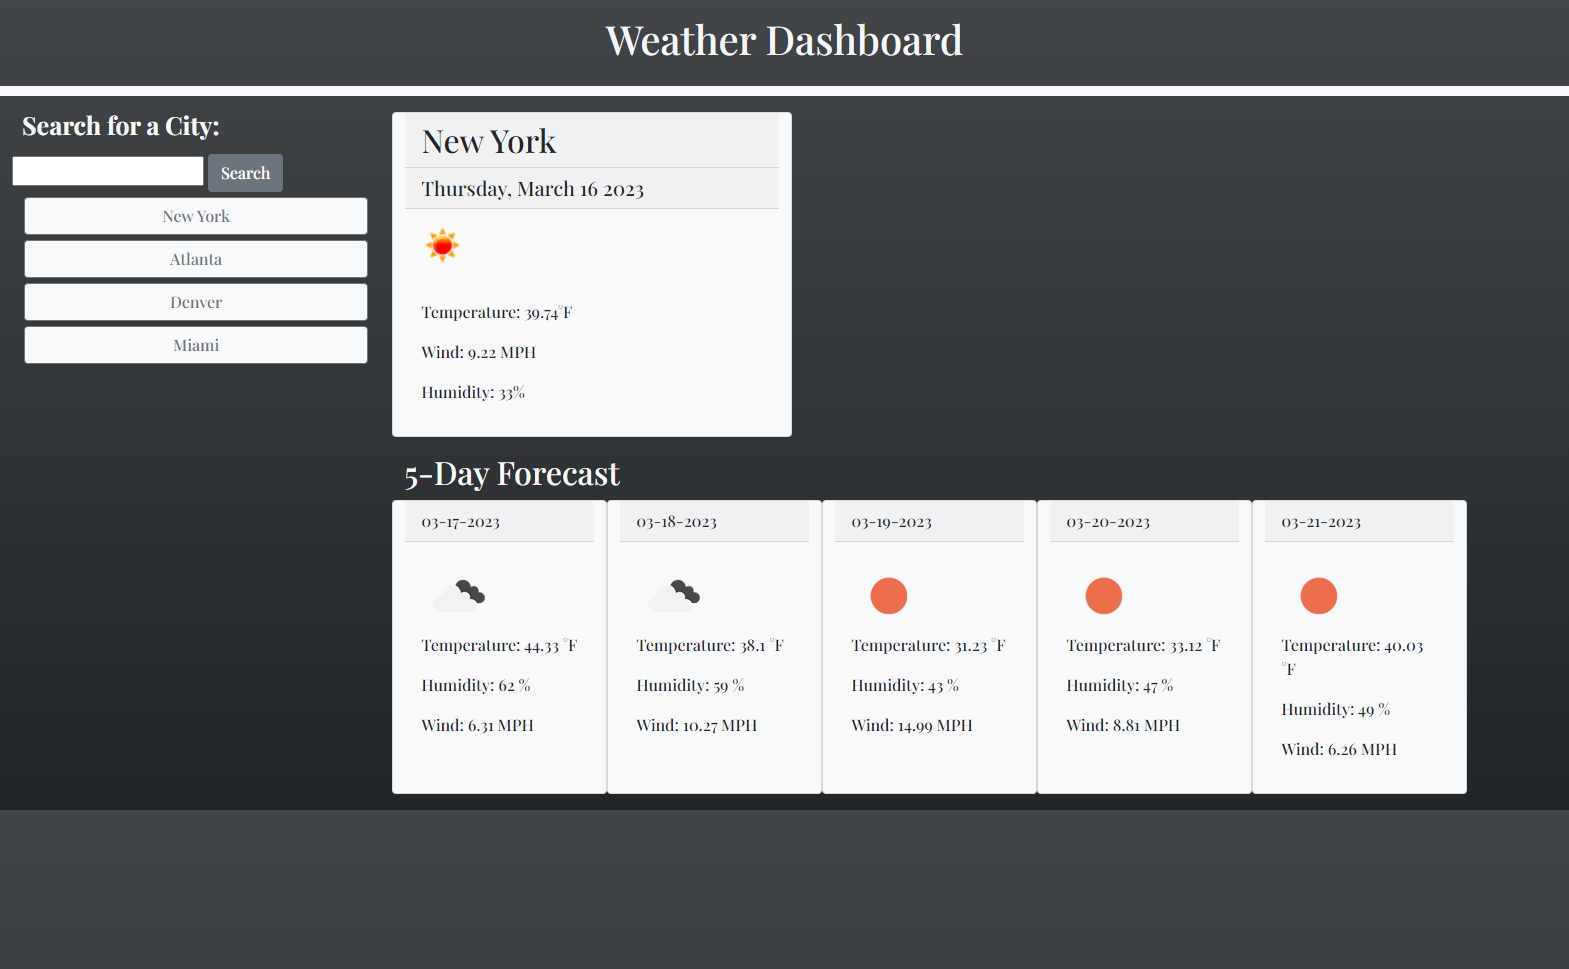
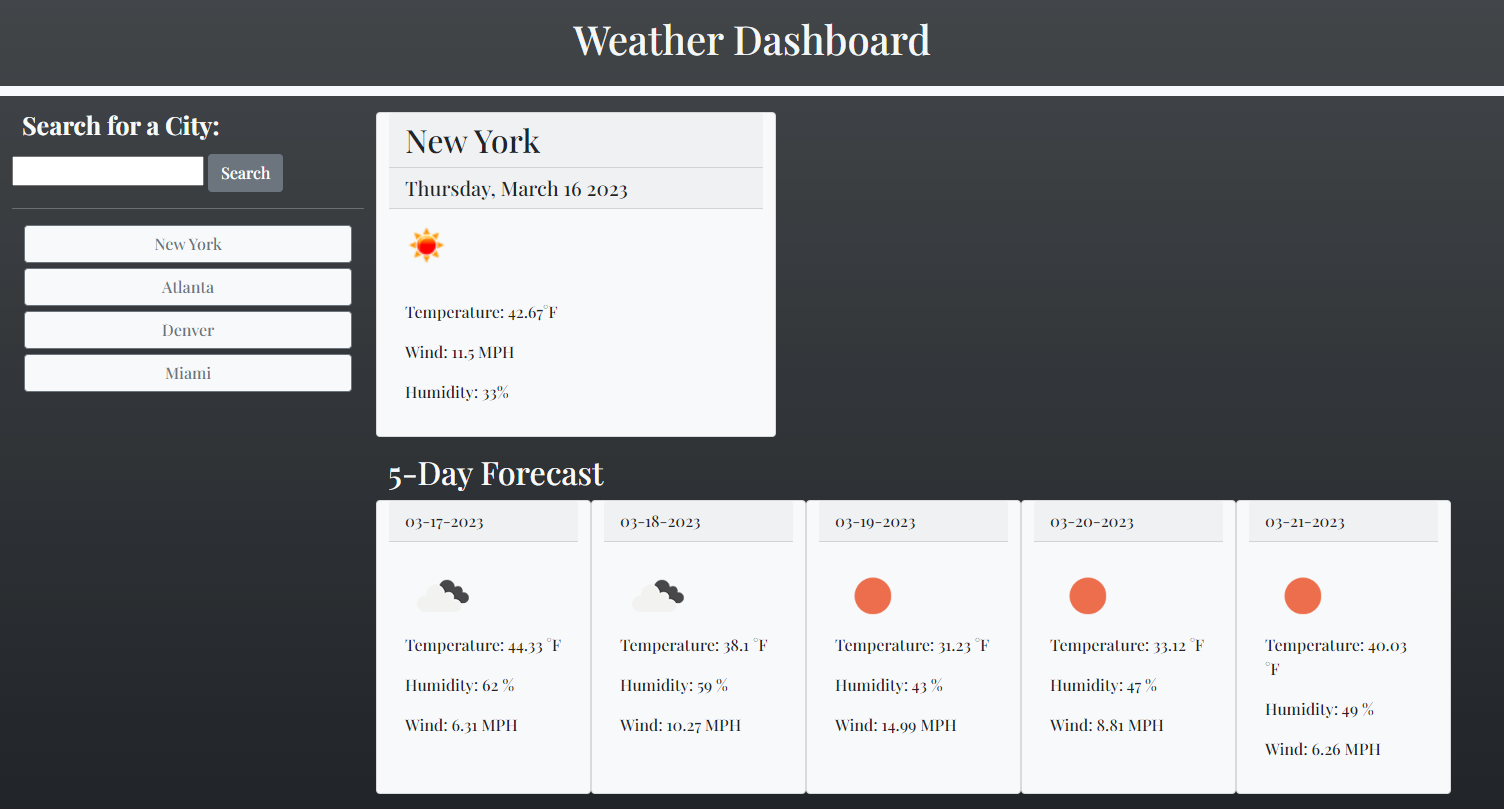
added comments

diff --git a/assets/script.js b/assets/script.js
@@ -1,3 +1,4 @@
+// Referenced global variables
 var citySearchForm = $("#search-city")
 var submitBtn = $("#submit-button");
 
@@ -6,64 +7,91 @@ var submitBtn = $("#submit-button");
 var date = dayjs().format('dddd, MMMM D YYYY');
 var dateTime = dayjs().format('YYYY-MM-DD HH:MM:SS')
 
+// created an empty cities array to be filled later
 var cities = [];
+// set Api key equal to a new var to be referenced more easily throughout code
 var key = "d743387c66c5b9bb1ef18f3d12ba90c7";
 
+// wrapped all functions in a call to jQuery to make sure DOM elements load first
 $(function() {
-    console.log("page and jquery initialized");
+    // console.log("page and jquery initialized");
 
-    
+    // calls Load cities function 
     loadCities();
     
 });
 
+// Retrieves any previously searched cities and/or displays default city upon page load
+function loadCities(city) {
+    var citiesStored = JSON.parse(localStorage.getItem('cities'));
+
+    if (citiesStored === null) {
+        var city= "New York";
+
+            var cities = {
+                city: city
+            }
+            // console.log("initial city", city)
+
+            //it passes the var city to the getcoordinates function
+            getCoordinates(city);
+            formSubmit();
+
+    } else if (citiesStored !== null) {
+		var cities = citiesStored
+
+        for (var i=0; i < cities.length; i++) {
+    
+    if (!cities) {
+        cities = [];
+        return;
+    };
+    
+    // console.log("loaded cities works");
+
+    //it passes the cities array to the getcoordinates & updatecitylist functions
+    getCoordinates(cities[0]);
+    updateCityList(cities[i]);
+    formSubmit();
+    }
+    }
+}
+
+// holds an event listener that listens for the city search form submit
 function formSubmit() {
 
     citySearchForm.submit(function(event) {
-        console.log("submit button works")
+        // console.log("submit button works")
         event.preventDefault();
 
         var city= $("#new-city").val();
 
         if (!city) {
-            console.log('City search is blank!');
+            // console.log('City search is blank!');
             return;
         }
         
+        //When the user clicks search, it passes the var city to the getcoordinates function
         getCoordinates(city);
-        // loadCities()
     });
 }
 
-function cityClick() {
-
-    var cityButton = $('.city');
-
-    cityButton.on("click", function (event) {
-        event.preventDefault()
-        
-        console.log("city button click works",($(event.target).text()))
-        
-        city = $(event.target).text()
-        getCoordinates(city)
-});
-}
-
+// uses the passed var city in order to retrieve its coordinates in a fetch Api request
 function getCoordinates(city) {
-    console.log("get coordinates works")
-    console.log("city name", city)
+    // console.log("get coordinates works")
+    // console.log("city name", city)
     fetch('http://api.openweathermap.org/geo/1.0/direct?q=' + city + '&limit=1&appid=' + key)
         .then(function(response) {
             return response.json();
         })
         .then(function(data){
-            console.log(data);
-            console.log("fetched coordinates", data[0].lat, data[0].lon)
+            // console.log(data);
+            // console.log("fetched coordinates", data[0].lat, data[0].lon)
 
             var lat= data[0].lat
             var lon= data[0].lon
 
-            console.log(city)
+            // console.log(city)
 
             addCity(city);
             getCurrentWeather(lat, lon);
@@ -71,8 +99,9 @@ function getCoordinates(city) {
         });
 };
 
+// adds new city to the cities array
 function addCity (city) {
-    console.log("add city works")
+    // console.log("add city works")
 
     var cityIndex = cities.indexOf(city);
     if (cityIndex !== -1) {
@@ -80,72 +109,30 @@ function addCity (city) {
     } 
 
     cities.unshift(city)
-    console.log("cities array", cities)
-    saveCity(city);
-    updateCityList(city);
+    // console.log("cities array", cities)
+
+    saveCity();
+    updateCityList();
     
     $('#new-city').val("");
 }
 
-function saveCity(city) {
+// saves new cities array to local storage
+function saveCity() {
     console.log("save cities local storage works")
 
     localStorage.setItem('cities', JSON.stringify(cities));
 }
-
-function loadCities(city) {
-    var citiesStored = JSON.parse(localStorage.getItem('cities'));
-
-    if (citiesStored === null) {
-        var city= "New York";
-        // var lat = 40.7127281;
-        // var lon= -74.0060152;
-
-            var cities = {
-                city: city
-            }
-            console.log("initial city", city)
-
-            getCoordinates(city);
-            formSubmit();
-            // addCity(city);
-            // getCurrentWeather(lat, lon);
-            // getForecast(lat, lon);
-
-        // updateCityList(cities);
-
-    } else if (citiesStored !== null) {
-		var cities = citiesStored
-
-        for (var i=0; i < cities.length; i++) {
-    // cities = JSON.parse(localStorage.getItem('cities'));
-    if (!cities) {
-        cities = [];
-        return;
-    };
     
-    console.log("loaded cities works");
-
-    
-    getCoordinates(cities[0]);
-    updateCityList(cities[i]);
-    formSubmit();
-    }
-    }
-}
-    
-function updateCityList(city) {
+// updates the displayed city list buttons
+function updateCityList() {
     console.log("update city list on page works");
     
     cities = JSON.parse(localStorage.getItem('cities'));
 
     var $cityList = $('#city-list');
-
-    // $cityList.text("");
     
     var citiesHtml = "";
-
-    
 
     for (var i=0; i < cities.length; i++) {
         citiesHtml += '<row class="row btnRow">';
@@ -159,6 +146,23 @@ function updateCityList(city) {
     
 }
 
+//holds an event listener that listens for user to click on a city button
+function cityClick() {
+
+    var cityButton = $('.city');
+
+    cityButton.on("click", function (event) {
+        event.preventDefault()
+        
+        // console.log("city button click works",($(event.target).text()))
+        
+        city = $(event.target).text()
+
+        // it passes the var city to the getcoordinates function
+        getCoordinates(city)
+});
+}
+// gets forecast data by making api fetch request using the passed in coordinates & api key
 function getForecast(lat, lon) {
     console.log("get forecast with coordinates:" + lat + "/" + lon)
     fetch('https://api.openweathermap.org/data/2.5/forecast?lat=' + lat +  '&lon=' + lon + '&units=imperial&appid=' + key)
@@ -172,6 +176,7 @@ function getForecast(lat, lon) {
         
 }
 
+// gets current weather data by making api fetch request using the passed in coordinates & api key
 function getCurrentWeather(lat, lon) {
     console.log("get current city weather with coordinates:" + lat + "/" + lon)
     fetch('https://api.openweathermap.org/data/2.5/weather?lat=' + lat +  '&lon=' + lon + '&units=imperial&appid=' + key)
@@ -181,10 +186,10 @@ function getCurrentWeather(lat, lon) {
         .then(function(data) {
             console.log("fetched current weather data", data)
             displayCurrentWeather(data);
-        })
-        
+        }) 
 }
 
+//displays the current weather on page by referencing html, and appending text with data
 function displayCurrentWeather(data) {
     console.log("display current weather works")
 
@@ -207,6 +212,7 @@ function displayCurrentWeather(data) {
 
 }
 
+//displays the weather forecast on page by referencing html, and appending text with data
 function displayForecast(data) {
     console.log("display forecast works")
 
@@ -230,7 +236,7 @@ function displayForecast(data) {
 				forecast.push(testObj);
 			}
 		})
-		//Inject the cards to the screen 
+		//Creates & appends the cards to the screen 
 		for (let i = 0; i < 5; i++) {
 
 			var divElCard = $('<div>');

diff --git a/index.html b/index.html
@@ -23,39 +23,45 @@
     <link rel="stylesheet" href="./assets/style.css"/>
 
 </head>
+<!-- Added styling to webpage using bootstrap components -->
 <body class="bg-dark bg-gradient">
     <header>
         <h1>Weather Dashboard</h1>
     </header>
-
-    <main class = "container-fluid">
+    <!-- made the main container fluid for resizability -->
+    <main class="container-fluid">
         <div class="row">
-            <section class="col-12 col-md-3 col-xl-3 side-nav">
+            <!-- Created a column section for the search form and previosuly searched buttons -->
+            <section class="col-12 col-md-3 col-xl-3">
+                <!-- added form so user can search a city -->
                 <form id="search-city">
                     <label class="text-light" for="new-city">Search for a City:</label>
                     <input type="text" id="new-city" />
-                    <input class="btn btn-secondary " type="submit" id="submit-button" value="Search"/>
+                    <input class="btn btn-secondary " type="submit" id="submit-button" value="Search" />
                 </form>
-        
-                <div class="container" id="city-list">
-                   
-                </div>
+    
+                <!-- added line break to match mockup -->
+                <hr class="line-break">
+    
+                <!-- created div to be filled when specific javascript functions run -->
+                <div class="container" id="city-list"></div>
             </section>
-        
-            <section class="col-12 col-md-9 col-xl-9 colTwo">
+    
+            <!-- Created another column section for the current forecast -->
+            <section class="col-12 col-md-9 col-xl-9">
                 <article class="row current-city">
                     <div class="card bg-light my-3" style="max-width: 400px;">
                         <h2 class="card-header" id="city-name-today"></h2>
                         <h3 class="card-header" id="card-today-date"></h3>
-                        <img class="icons"/>
+                        <img class="icons" />
                         <div class="card-body" id="current-card-body">
                         </div>
                     </div>
                 </article>
-            
-        
+    
+                <!-- Created another row for the 5-Day forecast -->
                 <section class="row">
-                    <h2 class="text-light" >5-Day Forecast</h2>
+                    <h2 class="text-light">5-Day Forecast</h2>
                     <div class="row" id="fiveDayForecast"></div>
                 </section>
             </section>

diff --git a/assets/style.css b/assets/style.css
@@ -1,7 +1,7 @@
+/* Referenced fonts brought in by Google Fonts */
 * {
 	font-family: 'Domine', serif;
 	font-family: 'Playfair Display', serif;
-
 }
 
 h1 {
@@ -31,6 +31,11 @@ label {
 	height: 75px;
 	width: 75px;
 }
+
 #card-today-date {
 	font-size: 20px;
+}
+
+.line-break {
+	color: ghostwhite;
 }
